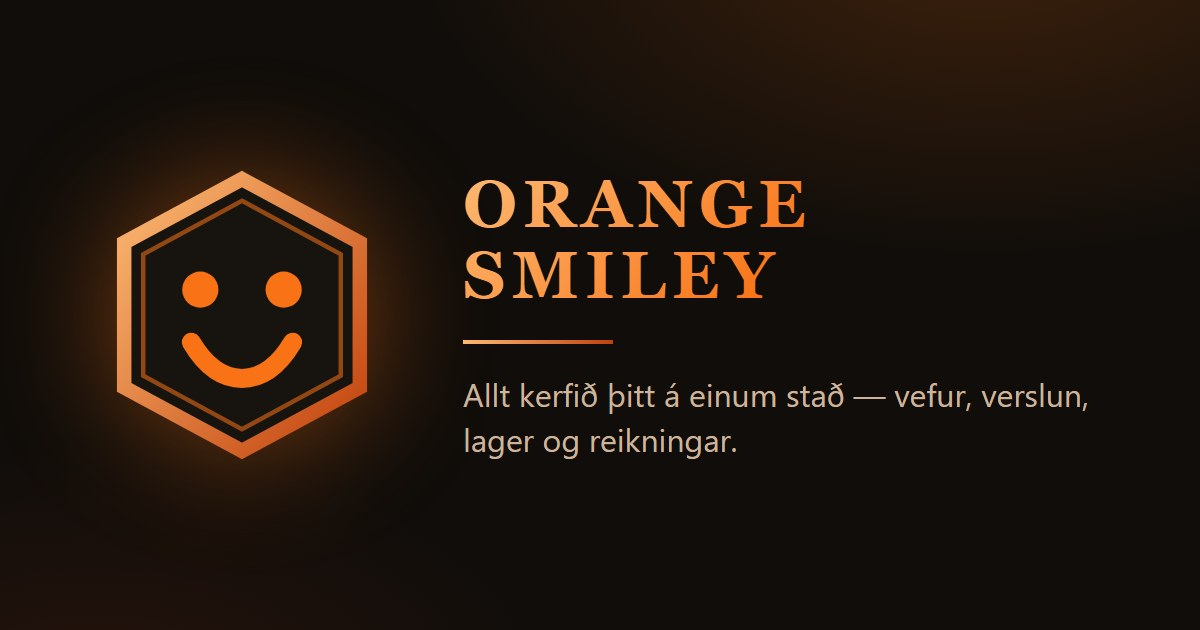
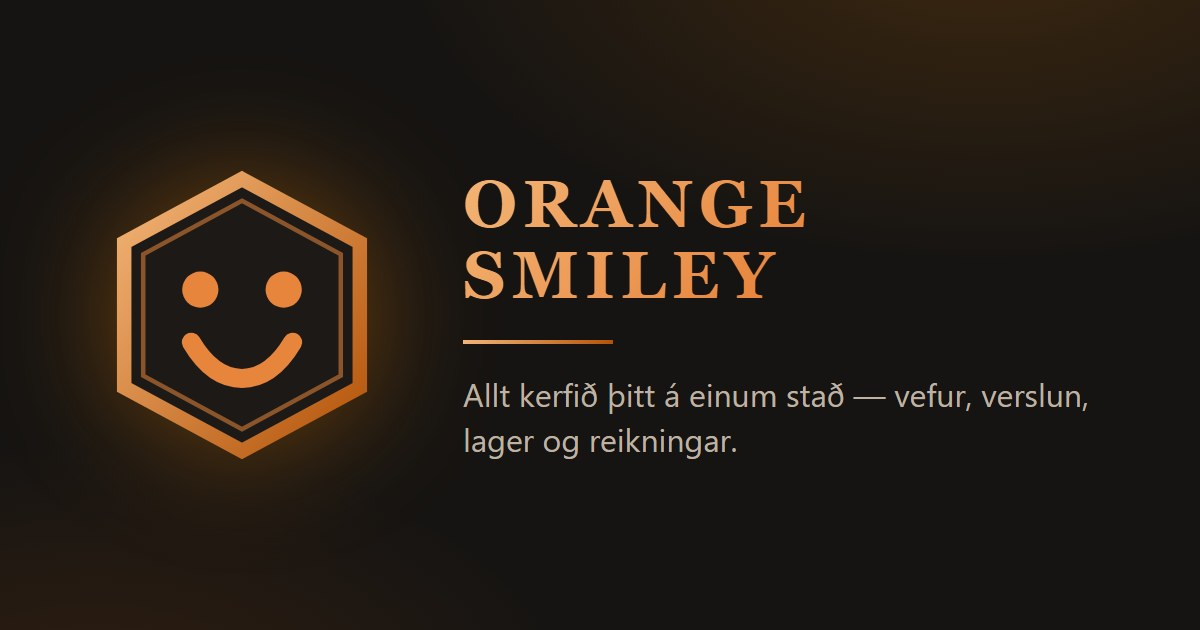
theme: Ash promoted to default — Halli's pick from the exploration set
Ash's tokens are now :root (variables.css): quiet warm charcoal surfaces,
the softened orange ramp (#F3B577/#E8853D/#B45309), warm ivory as the
sparing sharp accent, Barlow voice, gentle radii, matte shadows, no
backdrop pattern. The waterfall video hero + dark veil and the (now
whisper-quiet) ambient drift carry over unchanged.

The redundant 'ash' alternate is removed from themes.css, THEMES lists,
swatches and i18n; classic's picker label is now 'Aska (sjalfgefid)'.
Nine orange-and-black alternates remain for comparison until a final
cull (ENHANCEMENTS territory). Brand assets re-tinted to the Ash ramp:
favicon, og-image, manifest colors; the nav emblem follows automatically
via tokens.

Gates: lint + i18n clean, 2014/2014 Jest, 109/109 Playwright; picker
verified live — 10 swatches, default renders with no data-theme attr,
zero page errors.

diff --git a/public/css/variables.css b/public/css/variables.css
@@ -1,74 +1,62 @@
 :root {
   color-scheme: dark;
 
-  /* ── Orange Smiley "classic" — deep warm dark, orange-led ───────────────────
-     The design language is the hallismiley/LoL lineage the base was built
-     around — near-black warm surfaces, a luminous accent metal, sharp corners,
-     glows — with the gold swapped for an orange ramp. Token NAMES are
-     inherited (incl. the legacy --gold/--teal aliases) so every var()
-     reference resolves without component edits; only the VALUES are branded.
+  /* ── Orange Smiley "classic" = ASH — quiet warm charcoal, softened embers ──
+     Halli tested the ten-theme exploration set in the picker and chose Ash
+     (2026-08-09): calm, professional, ember-warm rather than ember-loud.
+     These are the Ash tokens promoted to the default. Token NAMES are
+     inherited from the base (incl. the legacy --gold/--teal aliases) so
+     every var() reference resolves without component edits.
 
-     Palette discipline (Halli's design rules, 2026-08-09): ONE dominant
-     colour + ONE sharp accent + neutrals. Dominant = the orange ramp; the
-     sharp accent = glacial cyan (--teal), used RARELY — fire above, ice
-     below. Iceland in two hues, and the heritage accent of the base.
+     Palette discipline (design rules): dominant = the softened orange ramp
+       #F3B577  --gold-light   highlights, hovers
+       #E8853D  --gold         THE accent — icons, links, price numerals
+       #B45309  --gold-dark    borders, gradient tails, pressed
+     sharp accent = warm ivory (--teal), used sparingly; neutrals = warm
+     charcoals + warm off-white ink. */
 
-     The orange ramp, light → dark:
-       #FDBA74  --gold-light   headings, hovers, highlights
-       #F97316  --gold         THE brand orange — primary accent, icons, links
-       #C2410C  --gold-dark    burnt orange — borders, gradients, pressed
-       #9A3412  (in gradients) rust — gradient tails, deep glows
-     Sharp accent:
-       #22D3EE  --teal         glacial cyan — sparing highlights only        */
+  /* Warm charcoal surfaces */
+  --bg-base:     #161412;
+  --bg-base-rgb: 22, 20, 18;
+  --bg-surface:  #1C1916;
+  --bg-elevated: #23201B;
+  --bg-nav:      #100F0D;
+  --bg-nav-rgb:  16, 15, 13;
+  --bg-hover:    #2A2620;
+  /* Ash is deliberately pattern-free — no tint layer behind content. The
+     ambient drift in main.css still breathes, but through Ash's soft glow
+     values it is barely-there, which is the point. */
+  --bg-tint:     none;
 
-  /* Warm near-black surfaces */
-  --bg-base:     #100D0A;
-  --bg-base-rgb: 16, 13, 10;
-  --bg-surface:  #17130E;
-  --bg-elevated: #1E1812;
-  --bg-nav:      #0B0907;
-  --bg-nav-rgb:  11, 9, 7;
-  --bg-hover:    #251C14;
-  /* Ambient two-stop tint layered over solid bases: ember above, a faint
-     glacial wash below — fire and ice. The animated body backdrop in
-     main.css builds on the same pairing. */
-  --bg-tint:
-    radial-gradient(ellipse at top, rgba(249, 115, 22, 0.10), transparent 60%),
-    radial-gradient(ellipse at bottom, rgba(34, 211, 238, 0.05), transparent 60%);
+  --border:       rgba(217, 119, 6, 0.42);
+  --border-dim:   rgba(217, 119, 6, 0.22);
+  --border-light: rgba(217, 119, 6, 0.10);
 
-  --border:       rgba(194, 65, 12, 0.60);
-  --border-dim:   rgba(194, 65, 12, 0.30);
-  --border-light: rgba(249, 115, 22, 0.18);
+  /* The softened orange ramp */
+  --gold:         #E8853D;
+  --gold-light:   #F3B577;
+  --gold-dark:    #B45309;
+  --gold-glow:    rgba(217, 119, 6, 0.10);
+  --glow-around:  0 0 30px rgba(217, 119, 6, 0.14);
+  /* The sharp accent — warm ivory, rare by design */
+  --teal:         #D6CDC2;
+  --teal-dim:     rgba(214, 205, 194, 0.08);
 
-  /* Primary accent — the orange ramp */
-  --gold:         #F97316;
-  --gold-light:   #FDBA74;
-  --gold-dark:    #C2410C;
-  --gold-glow:    rgba(249, 115, 22, 0.15);
-  --glow-around:  0 0 60px rgba(249, 115, 22, 0.20), 0 0 20px rgba(249, 115, 22, 0.13);
-  /* The sharp accent — glacial cyan against the ember ramp */
-  --teal:         #22D3EE;
-  --teal-dim:     rgba(34, 211, 238, 0.10);
-
-  /* Accent gradients — shared by CTAs, the hero title, and section rules so
-     every "metal" surface uses the same ramp instead of ad-hoc hexes. */
-  --accent-gradient:     linear-gradient(135deg, #FDBA74 0%, #F97316 55%, #C2410C 100%);
-  --accent-gradient-dim: linear-gradient(135deg, rgba(249, 115, 22, 0.30), rgba(154, 52, 18, 0.30));
-  --hero-title-glow:
-    0 0 80px rgba(249, 115, 22, 0.55),
-    0 2px 4px rgba(0, 0, 0, 0.9),
-    0 0 200px rgba(249, 115, 22, 0.22);
+  /* Accent gradients — shared by CTAs and the hero title fill */
+  --accent-gradient:     linear-gradient(135deg, #F3B577 0%, #D97706 100%);
+  --accent-gradient-dim: linear-gradient(135deg, rgba(243, 181, 119, 0.18), rgba(217, 119, 6, 0.18));
+  --hero-title-glow: none;
 
   /* Legacy aliases used in components */
-  --accent-amber:     #F97316;
-  --accent-amber-dim: rgba(249, 115, 22, 0.13);
-  --accent-blue:      #22D3EE;
-  --accent-blue-dim:  rgba(34, 211, 238, 0.10);
+  --accent-amber:     #E8853D;
+  --accent-amber-dim: rgba(232, 133, 61, 0.10);
+  --accent-blue:      #D6CDC2;
+  --accent-blue-dim:  rgba(214, 205, 194, 0.08);
 
-  /* Warm ivory ink — the original base's cream, warmed toward the orange */
-  --text-primary:   #F5EDE2;
-  --text-secondary: #CBB59F;
-  --text-muted:     #97826F;
+  /* Warm ink */
+  --text-primary:   #EFE8DF;
+  --text-secondary: #BFB2A2;
+  --text-muted:     #8F8474;
 
   --success: #4caf78;
   --error:   #e0635c;
@@ -88,24 +76,23 @@
   --sp-7:  48px;
   --sp-8:  64px;
 
-  /* Typography — Cinzel carries the display voice (the LoL-lineage serif the
-     base was designed around); Barlow does the reading. Both self-hosted, so
-     the fallbacks are pure safety nets — deliberately generic families, no
-     named default fonts (design rule: Inter/Roboto/system-ui are banned). */
-  --font-display: 'Cinzel', serif;
+  /* Typography — Barlow carries Ash's quiet voice; Cinzel remains available
+     to the alternate themes (editorial). Fallback stacks end in bare generic
+     families — no named default fonts (design rule). */
+  --font-display: 'Barlow', sans-serif;
   --font-sans:    'Barlow', 'Barlow Condensed', sans-serif;
   --font-mono:    'JetBrains Mono', monospace;
 
-  /* Sharp corners — the LoL aesthetic */
-  --radius-sm: 2px;
-  --radius-md: 2px;
-  --radius-lg: 3px;
-  --radius-xl: 4px;
+  /* Soft corners — Ash rounds gently where Ember was sharp */
+  --radius-sm: 4px;
+  --radius-md: 6px;
+  --radius-lg: 8px;
+  --radius-xl: 12px;
 
-  /* Shadows — deep blacks with an ember rim */
-  --shadow-card:  0 4px 24px rgba(0, 0, 0, 0.6), 0 1px 4px rgba(0, 0, 0, 0.4);
-  --shadow-modal: 0 16px 64px rgba(0, 0, 0, 0.85);
-  --shadow-gold:  0 0 24px rgba(249, 115, 22, 0.22);
+  /* Shadows — low, matte */
+  --shadow-card:  0 2px 12px rgba(0, 0, 0, 0.4);
+  --shadow-modal: 0 16px 56px rgba(0, 0, 0, 0.75);
+  --shadow-gold:  0 0 20px rgba(217, 119, 6, 0.18);
 
   /* Transitions */
   --transition: 200ms ease;

diff --git a/public/css/themes.css b/public/css/themes.css
@@ -385,46 +385,6 @@ html[data-theme="industrial"] {
   --bg-gradient:  none;
 }
 
-/* ── 10 · Ash — quiet warm charcoal, softened embers, the calm one ── */
-html[data-theme="ash"] {
-  color-scheme: dark;
-  --bg-base:     #161412;
-  --bg-base-rgb: 22, 20, 18;
-  --bg-surface:  #1C1916;
-  --bg-elevated: #23201B;
-  --bg-nav:      #100F0D;
-  --bg-nav-rgb:  16, 15, 13;
-  --bg-hover:    #2A2620;
-  --bg-tint:     none;
-  --border:       rgba(217, 119, 6, 0.42);
-  --border-dim:   rgba(217, 119, 6, 0.22);
-  --border-light: rgba(217, 119, 6, 0.10);
-  --gold:         #E8853D;
-  --gold-light:   #F3B577;
-  --gold-dark:    #B45309;
-  --gold-glow:    rgba(217, 119, 6, 0.10);
-  --glow-around:  0 0 30px rgba(217, 119, 6, 0.14);
-  --teal:         #D6CDC2;
-  --teal-dim:     rgba(214, 205, 194, 0.08);
-  --accent-gradient:     linear-gradient(135deg, #F3B577 0%, #D97706 100%);
-  --accent-gradient-dim: linear-gradient(135deg, rgba(243, 181, 119, 0.18), rgba(217, 119, 6, 0.18));
-  --hero-title-glow: none;
-  --accent-amber:     #E8853D;
-  --accent-amber-dim: rgba(232, 133, 61, 0.10);
-  --accent-blue:      #D6CDC2;
-  --accent-blue-dim:  rgba(214, 205, 194, 0.08);
-  --text-primary:   #EFE8DF;
-  --text-secondary: #BFB2A2;
-  --text-muted:     #8F8474;
-  --font-display: 'Barlow', sans-serif;
-  --font-sans:    'Barlow', sans-serif;
-  --radius-sm: 4px; --radius-md: 6px; --radius-lg: 8px; --radius-xl: 12px;
-  --shadow-card:  0 2px 12px rgba(0, 0, 0, 0.4);
-  --shadow-modal: 0 16px 56px rgba(0, 0, 0, 0.75);
-  --shadow-gold:  0 0 20px rgba(217, 119, 6, 0.18);
-  --bg-gradient:  none;
-}
-
 /* ── Shared theme plumbing ────────────────────────────────────────────────────
    The backdrop hook: themes carry their page backdrop in --bg-gradient
    (grid, scanlines, horizon, blobs — or none for the flat ones). classic

diff --git a/public/js/components/ThemeSwitcher.js b/public/js/components/ThemeSwitcher.js
@@ -20,7 +20,10 @@ const PALETTE_ICON = '<svg viewBox="0 0 24 24" width="20" height="20" fill="none
 // are orange-and-black (Halli's exploration set, 2026-08-09), so each swatch
 // hints at its personality — slab, scanline, grid, horizon — not a hue.
 const SWATCH_COLORS = {
-  classic:    'linear-gradient(135deg, #FDBA74 0%, #C2410C 55%, #100D0A 100%)',
+  // classic IS Ash — Halli's pick from the exploration set, promoted to the
+  // :root default (2026-08-09). The former default (Molten Ember) is gone;
+  // the remaining nine alternates stay for comparison until a final cull.
+  classic:    'linear-gradient(135deg, #F3B577 0%, #161412 70%)',
   brutal:     'linear-gradient(135deg, #F97316 0%, #F97316 48%, #000 48%, #000 100%)',
   terminal:   'repeating-linear-gradient(0deg, #170D05 0 2px, #050403 2px 4px)',
   blueprint:  'repeating-linear-gradient(90deg, #1D1004 0 1px, #0A0806 1px 6px)',
@@ -30,7 +33,6 @@ const SWATCH_COLORS = {
   magma:      'radial-gradient(circle at 28% 72%, #F97316 0%, #C2410C 38%, #0F0906 78%)',
   neon:       'linear-gradient(135deg, #030303 60%, #FB923C 100%)',
   industrial: 'linear-gradient(90deg, #F97316 0 22%, #111110 22%)',
-  ash:        'linear-gradient(135deg, #F3B577 0%, #161412 70%)',
 };
 
 function esc(s) {

diff --git a/public/js/theme-boot.js b/public/js/theme-boot.js
@@ -3,7 +3,7 @@
 // no flash of the default theme on reload. Mirrors the THEMES list and the
 // data-theme rule in services/themePrefs.js; keep the two in sync.
 (function () {
-  var THEMES = ['classic', 'brutal', 'terminal', 'blueprint', 'editorial', 'sunset', 'bauhaus', 'magma', 'neon', 'industrial', 'ash'];
+  var THEMES = ['classic', 'brutal', 'terminal', 'blueprint', 'editorial', 'sunset', 'bauhaus', 'magma', 'neon', 'industrial'];
   try {
     var theme = localStorage.getItem('ws_theme');
     // classic is the :root default → no attribute. Anything else applies.

diff --git a/public/js/services/themePrefs.js b/public/js/services/themePrefs.js
@@ -14,7 +14,7 @@
 // public/js/theme-boot.js (pre-paint classic script in index.html) duplicates
 // the theme read + admin guard — keep the two in sync.
 
-export const THEMES = ['classic', 'brutal', 'terminal', 'blueprint', 'editorial', 'sunset', 'bauhaus', 'magma', 'neon', 'industrial', 'ash'];
+export const THEMES = ['classic', 'brutal', 'terminal', 'blueprint', 'editorial', 'sunset', 'bauhaus', 'magma', 'neon', 'industrial'];
 const DEFAULT_THEME = 'classic';
 const THEME_KEY = 'ws_theme';
 const TEST_KEY  = 'ws_test_override';

diff --git a/CLAUDE.md b/CLAUDE.md
@@ -37,8 +37,8 @@ Full rules: `.claude/rules/stack-invariants.md` (auto-loaded).
 ## Design rules (Halli, 2026-08-09 — binding for all UI work)
 
 - **Banned defaults.** Fonts: Inter, Roboto, Open Sans, Arial, system-ui, Space Grotesk — not even in fallback stacks (use bare `serif`/`sans-serif`/`monospace` tails behind the self-hosted faces). Colors: purple/indigo/violet gradients, timid evenly-spread palettes, default Tailwind blue. Layout: centered hero + dual CTAs + three identical feature cards — the cookie-cutter SaaS shell.
-- **Palette discipline.** One dominant color + one sharp accent + neutrals, all through the CSS token system. Here: the orange ramp dominates (`--gold-light/--gold/--gold-dark`), glacial cyan `--teal` is the sharp accent used sparingly, warm near-blacks and ivory are the neutrals.
-- **Make unexpected, context-specific choices.** This site's look is the dark hallismiley/LoL lineage — Cinzel display, sharp corners, ember glows, the moving video hero — not a generic template. Vary light/dark, density and structure across projects rather than reusing one shell; when a row of cards is unavoidable, differentiate them (numbering, emphasis, asymmetry).
+- **Palette discipline.** One dominant color + one sharp accent + neutrals, all through the CSS token system. Here (the **Ash** default, Halli's pick from the ten-theme exploration set): the softened orange ramp dominates (`--gold-light/--gold/--gold-dark` = #F3B577/#E8853D/#B45309), warm ivory `--teal` is the sharp accent used sparingly, warm charcoals are the neutrals.
+- **Make unexpected, context-specific choices.** The default is Ash — quiet warm charcoal, softened embers, Barlow voice, the waterfall video hero under a dark veil, the 4.1 emblem mark. Nine orange-and-black alternates live in the theme picker (`themes.css`) for comparison until a final cull; Halli picks themes by testing them live, so keep the picker healthy. When a row of cards is unavoidable, differentiate them (numbering, emphasis, asymmetry).
 
 ## Factory commands
 
